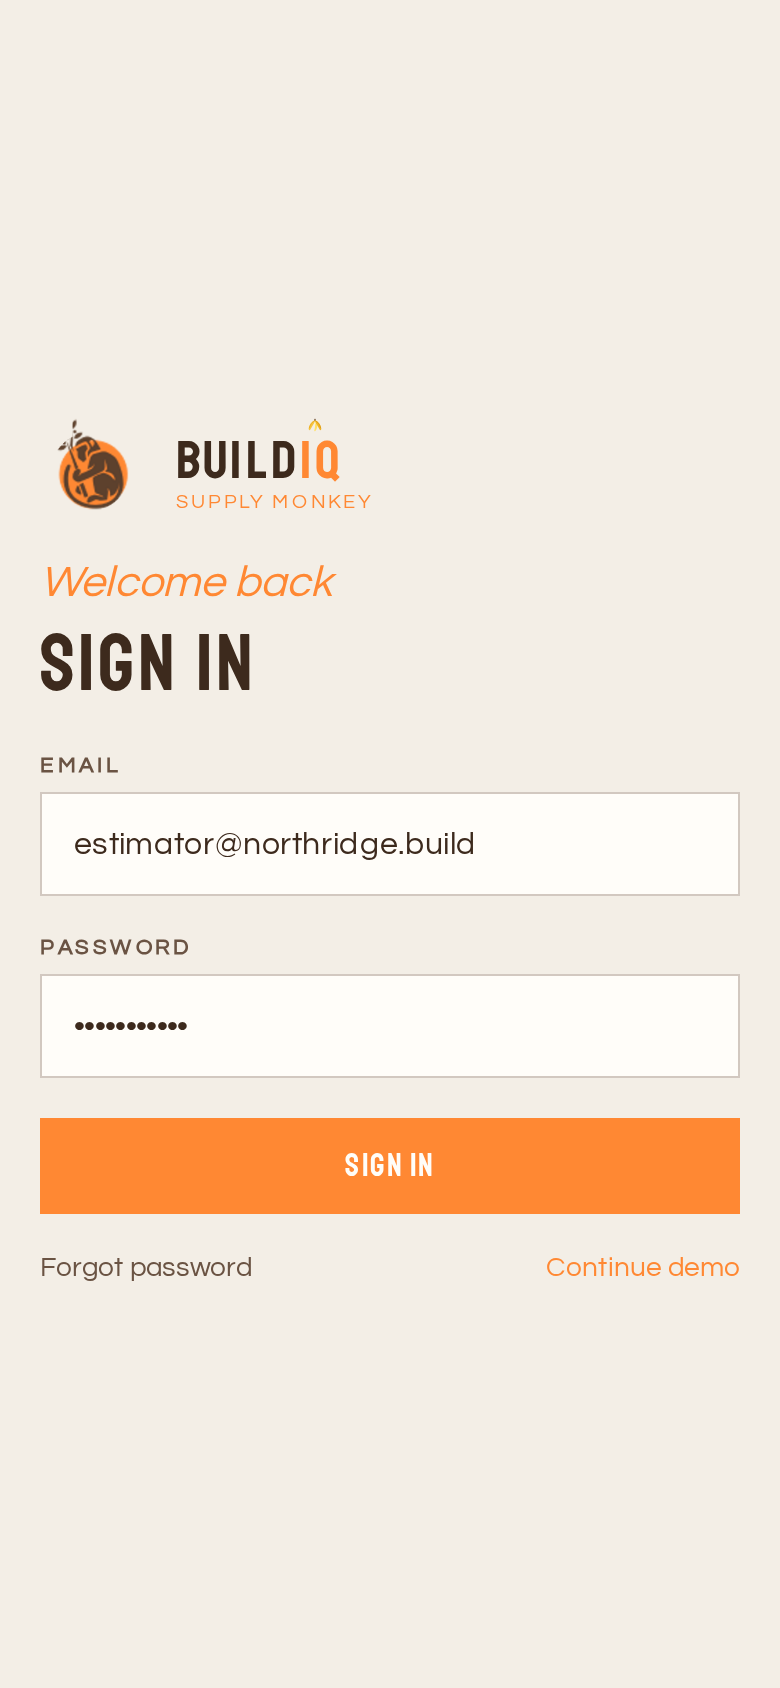
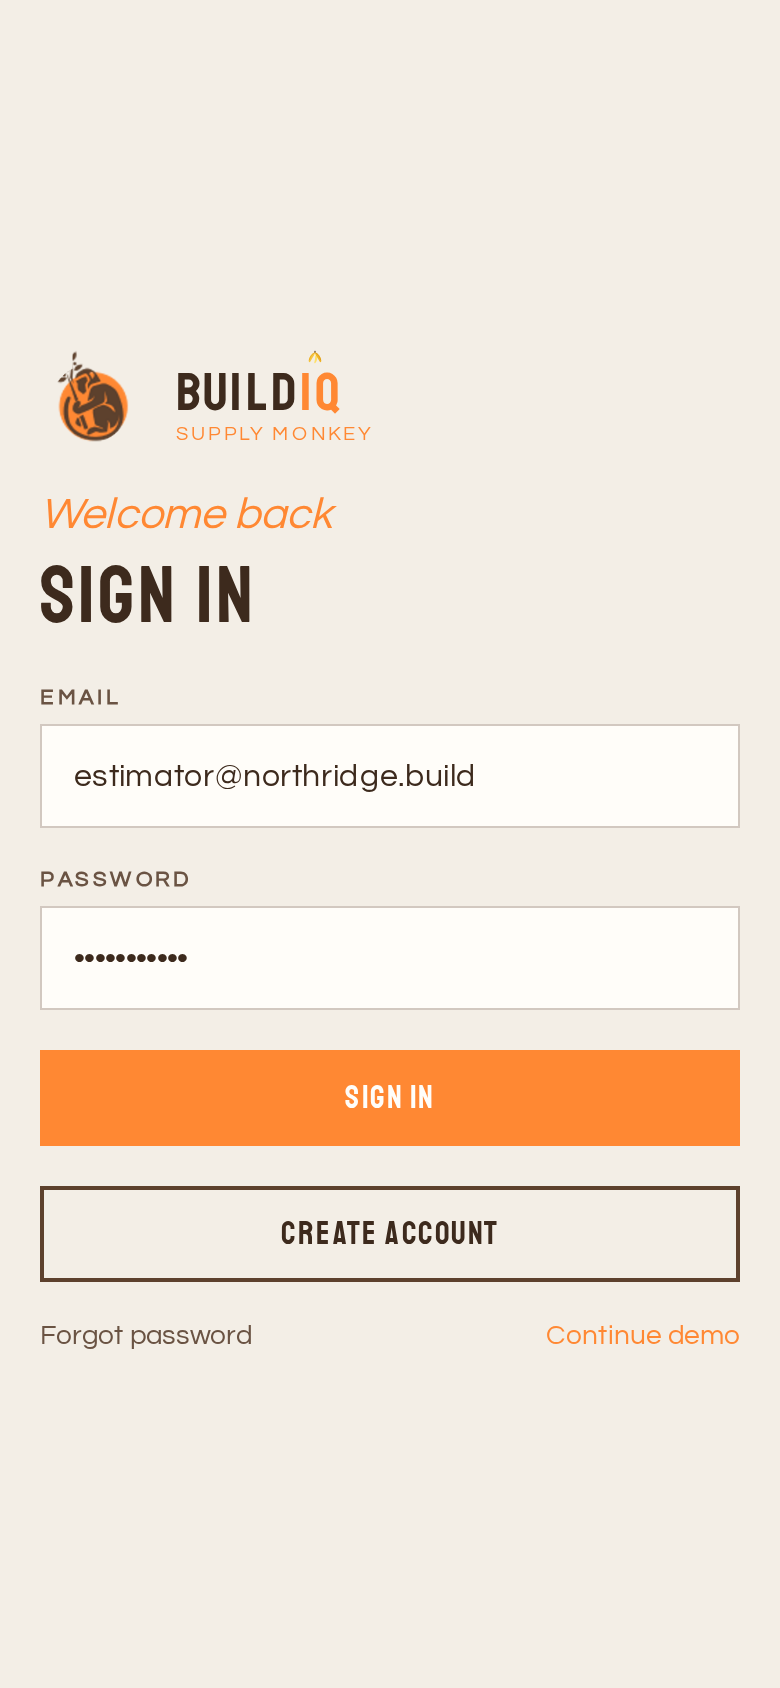
Add Create account on mobile login with signup screen.
Secondary CTA on login opens a Millwork Studio signup form
wired to register API with demo fallback when offline.

Changed region(s): [[0.0308, 0.2156, 0.9538, 0.8009], [0.9231, 0.5237, 0.9538, 0.5545]]

diff --git a/apps/mobile/app/(auth)/signup.tsx b/apps/mobile/app/(auth)/signup.tsx
@@ -1,0 +1,141 @@
+import React, { useEffect, useState } from "react";
+import { Pressable, Text, View } from "react-native";
+import { Redirect, router, type Href } from "expo-router";
+import Animated, {
+  Easing,
+  useAnimatedStyle,
+  useSharedValue,
+  withTiming,
+} from "react-native-reanimated";
+import { BrandMark, Button, Screen, TextField, useTheme } from "../../src/ui";
+import { useAuth } from "../../src/context/AuthContext";
+import { registerSchema } from "@buildiq/validation";
+
+/** M1b — Create account */
+export default function SignupScreen() {
+  const { session, signUp } = useAuth();
+  const { theme, gutter, reduceMotion } = useTheme();
+  const [name, setName] = useState("");
+  const [companyName, setCompanyName] = useState("");
+  const [email, setEmail] = useState("");
+  const [password, setPassword] = useState("");
+  const [error, setError] = useState<string | undefined>();
+  const [loading, setLoading] = useState(false);
+  const enter = useSharedValue(reduceMotion ? 1 : 0);
+
+  useEffect(() => {
+    enter.value = withTiming(1, {
+      duration: theme.motion.enter,
+      easing: Easing.out(Easing.cubic),
+    });
+  }, [enter, theme.motion.enter]);
+
+  const formStyle = useAnimatedStyle(() => ({
+    opacity: enter.value,
+    transform: [{ translateY: (1 - enter.value) * 24 }],
+  }));
+
+  if (session) return <Redirect href="/(tabs)/jobs" />;
+
+  async function onSubmit() {
+    setError(undefined);
+    const parsed = registerSchema.safeParse({ name, email, password, companyName });
+    if (!parsed.success) {
+      setError(parsed.error.issues[0]?.message ?? "Invalid registration");
+      return;
+    }
+    setLoading(true);
+    try {
+      await signUp(parsed.data);
+      router.replace("/(tabs)/jobs");
+    } catch (e) {
+      setError(e instanceof Error ? e.message : "Registration failed");
+    } finally {
+      setLoading(false);
+    }
+  }
+
+  return (
+    <Screen scroll edges={["top", "left", "right", "bottom"]}>
+      <Animated.View
+        style={[
+          {
+            flex: 1,
+            justifyContent: "center",
+            paddingHorizontal: gutter,
+            paddingVertical: theme.space[8],
+            gap: theme.space[5],
+            maxWidth: 440,
+            width: "100%",
+            alignSelf: "center",
+          },
+          formStyle,
+        ]}
+      >
+        <BrandMark size={56} variant="full" />
+        <View style={{ gap: theme.space[1] }}>
+          <Text
+            style={{
+              fontFamily: "Questrial",
+              fontSize: 22,
+              fontStyle: "italic",
+              color: theme.colors.accent,
+            }}
+          >
+            Join the yard
+          </Text>
+          <Text
+            style={{
+              fontFamily: "Staatliches",
+              fontSize: 40,
+              letterSpacing: 2,
+              textTransform: "uppercase",
+              color: theme.colors.text,
+            }}
+          >
+            Create account
+          </Text>
+        </View>
+        <TextField label="Your name" value={name} onChangeText={setName} autoComplete="name" />
+        <TextField
+          label="Company"
+          value={companyName}
+          onChangeText={setCompanyName}
+          autoComplete="organization"
+        />
+        <TextField
+          label="Email"
+          value={email}
+          onChangeText={setEmail}
+          autoCapitalize="none"
+          keyboardType="email-address"
+          autoComplete="email"
+        />
+        <TextField
+          label="Password"
+          value={password}
+          onChangeText={setPassword}
+          secureTextEntry
+          autoComplete="new-password"
+          error={error}
+        />
+        <Button
+          label={loading ? "Creating…" : "Create account"}
+          onPress={onSubmit}
+          disabled={loading}
+          accessibilityLabel="Create account"
+        />
+        <Pressable
+          accessibilityRole="button"
+          accessibilityLabel="Already have an account"
+          onPress={() => router.replace("/(auth)/login" as Href)}
+          style={{ alignSelf: "flex-start" }}
+        >
+          <Text style={{ fontFamily: "Questrial", fontSize: 14, color: theme.colors.accent }}>
+            Already have an account
+          </Text>
+        </Pressable>
+      </Animated.View>
+    </Screen>
+  );
+}

diff --git a/apps/mobile/src/context/AuthContext.tsx b/apps/mobile/src/context/AuthContext.tsx
@@ -10,7 +10,7 @@ import React, {
 import type { UserSession } from "@buildiq/types";
 import AsyncStorage from "@react-native-async-storage/async-storage";
 import { apiFetch, setToken } from "../api/client";
-import { login as apiLogin } from "../api/resources";
+import { login as apiLogin, register as apiRegister } from "../api/resources";
 import { MOCK_SESSION } from "../data/mock";
 
 const AUTH_KEY = "buildiq.session";
@@ -19,6 +19,12 @@ type AuthContextValue = {
   session: UserSession | null;
   bootstrapped: boolean;
   signIn: (email: string, password: string) => Promise<void>;
+  signUp: (input: {
+    name: string;
+    email: string;
+    password: string;
+    companyName: string;
+  }) => Promise<void>;
   signOut: () => Promise<void>;
   signInDemo: () => Promise<void>;
 };
@@ -62,6 +68,28 @@ export function AuthProvider({ children }: { children: ReactNode }) {
     [persist]
   );
 
+  const signUp = useCallback(
+    async (input: { name: string; email: string; password: string; companyName: string }) => {
+      const res = await apiRegister(input);
+      if (res) {
+        await persist(res.user, res.token);
+        return;
+      }
+      await persist(
+        {
+          ...MOCK_SESSION,
+          id: "user_new",
+          email: input.email,
+          name: input.name,
+          companyName: input.companyName,
+          role: "OWNER",
+        },
+        "demo-token"
+      );
+    },
+    [persist]
+  );
+
   const signInDemo = useCallback(async () => {
     await persist(MOCK_SESSION, "demo-token");
   }, [persist]);
@@ -76,8 +104,8 @@ export function AuthProvider({ children }: { children: ReactNode }) {
   }, [persist]);
 
   const value = useMemo(
-    () => ({ session, bootstrapped, signIn, signOut, signInDemo }),
-    [session, bootstrapped, signIn, signOut, signInDemo]
+    () => ({ session, bootstrapped, signIn, signUp, signOut, signInDemo }),
+    [session, bootstrapped, signIn, signUp, signOut, signInDemo]
   );
 
   return <AuthContext.Provider value={value}>{children}</AuthContext.Provider>;

diff --git a/apps/mobile/app/(auth)/login.tsx b/apps/mobile/app/(auth)/login.tsx
@@ -1,6 +1,6 @@
 import React, { useEffect, useState } from "react";
 import { Pressable, Text, useWindowDimensions, View } from "react-native";
-import { Redirect, router } from "expo-router";
+import { Redirect, router, type Href } from "expo-router";
 import Animated, {
   Easing,
   useAnimatedStyle,
@@ -113,6 +113,12 @@ export default function LoginScreen() {
         error={error}
       />
       <Button label={loading ? "Signing in…" : "Sign in"} onPress={onSubmit} disabled={loading} />
+      <Button
+        label="Create account"
+        variant="secondary"
+        accessibilityLabel="Create account"
+        onPress={() => router.push("/(auth)/signup" as Href)}
+      />
       <View style={{ flexDirection: "row", justifyContent: "space-between", gap: theme.space[3] }}>
         <Pressable accessibilityRole="button" onPress={() => undefined}>
           <Text style={{ fontFamily: "Questrial", fontSize: 14, color: theme.colors.textSecondary }}>

diff --git a/apps/mobile/src/api/resources.ts b/apps/mobile/src/api/resources.ts
@@ -78,6 +78,21 @@ export async function login(
   );
 }
 
+export async function register(input: {
+  name: string;
+  email: string;
+  password: string;
+  companyName: string;
+}): Promise<{ token: string; user: UserSession } | null> {
+  return tryApi(() =>
+    apiFetch<{ token: string; user: UserSession }>("/auth/register", {
+      method: "POST",
+      body: input,
+      auth: false,
+    })
+  );
+}
+
 export async function listProjects(): Promise<ProjectSummary[] | null> {
   const res = await tryApi(() =>
     apiFetch<{ projects: ProjectSummary[] }>("/projects")
